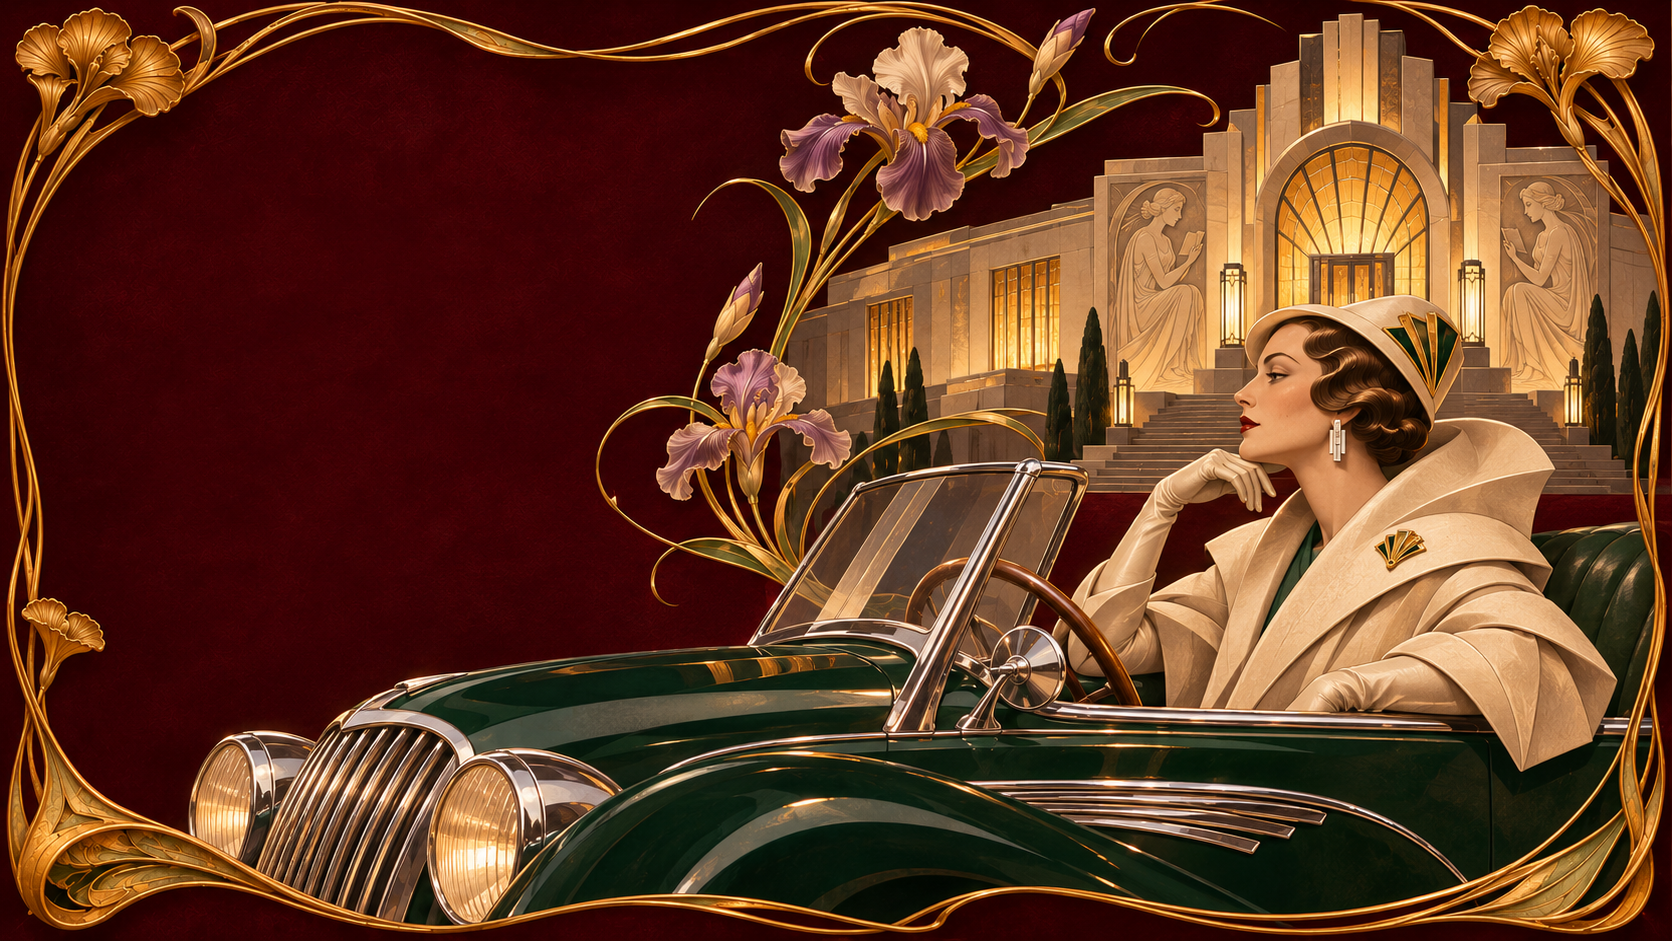
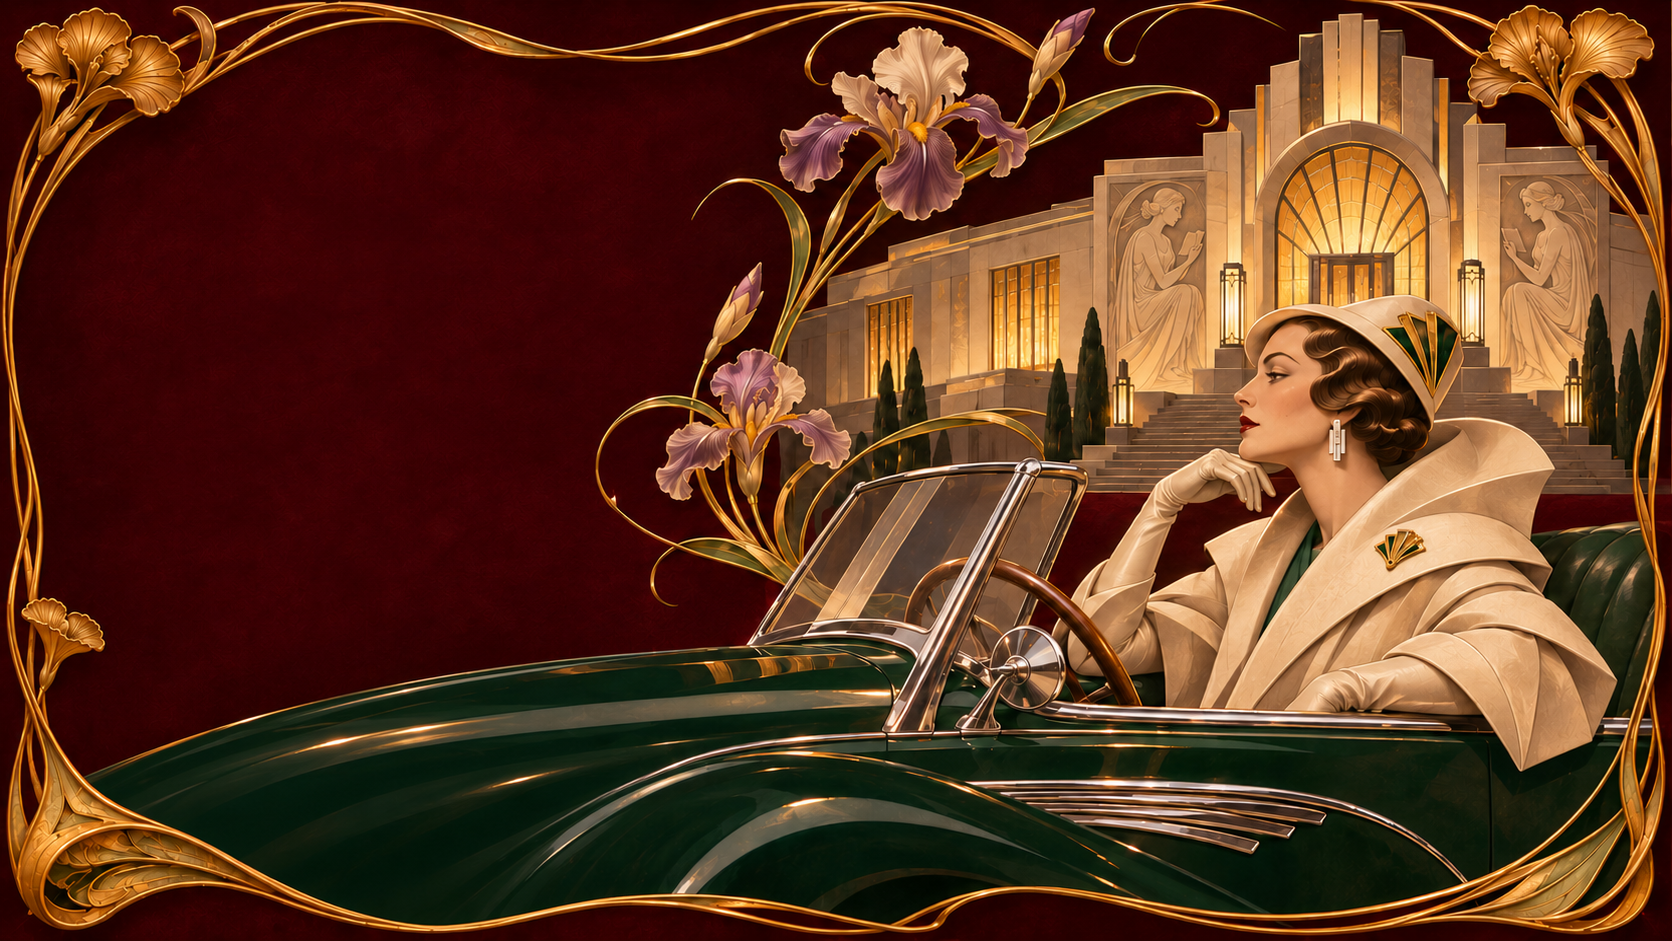
Refine Art Deco hero hood

diff --git a/apps/web/src/styles.css b/apps/web/src/styles.css
@@ -15,9 +15,10 @@ button { color: inherit; font: inherit; }
 .identity span { padding:0 7px; color:#b6822d; }.identity em { font-weight:400; letter-spacing:.06em; }
 nav { display:flex; justify-content:center; gap:28px; font-family:'DM Mono', monospace; font-size:10px; letter-spacing:.13em; text-transform:uppercase; } nav a { opacity:.86; } nav a:first-child { text-decoration:underline; text-underline-offset:7px; }
 .locales { display:flex; gap:12px; font-family:'DM Mono',monospace; font-size:10px; }.locales button { border:0; background:transparent; padding:4px 0; cursor:pointer; opacity:.46; }.locales button.active { opacity:1; border-bottom:1px solid #e5b351; }
-.hero { min-height: calc(100vh - 123px); position:relative; z-index:1; display:grid; grid-template-columns: minmax(320px,.86fr) minmax(420px,1.14fr); align-items:center; gap:26px; padding:48px 8.5% 58px; }
-.hero-copy { position:relative; z-index:2; max-width:570px; padding:65px 0 15px; }.kicker { font-family:'DM Mono',monospace; font-size:10px; letter-spacing:.18em; color:#e2ba6a; }.hero h1 { margin:21px 0 13px; font-weight:500; font-size:clamp(56px,6.5vw,108px); line-height:.79; letter-spacing:-.057em; color:#f2d69a; text-wrap:balance; }.hero h1 span { display:block; }.ornament { display:block; margin:34px 0 22px; color:#e6a93a; font-size:40px; transform:rotate(21deg); }.intro { max-width:460px; margin:0; font-size:24px; line-height:1.15; color:#e5c784; }.journal-link { display:inline-flex; align-items:center; gap:32px; margin-top:40px; font-family:'DM Mono',monospace; font-size:10px; letter-spacing:.15em; text-transform:uppercase; border-bottom:1px solid #dba83d; padding-bottom:10px; }.journal-link i { font-family:Georgia,serif; font-size:22px; font-style:normal; line-height:0; }
-.hero-art { position:relative; margin:0 -4% 0 -12%; z-index:1; }.hero-art::after { content:''; position:absolute; inset:0; background:linear-gradient(90deg,#3c0908 0%, transparent 28%),linear-gradient(0deg,#3b0908 0%,transparent 15%); mix-blend-mode:multiply; pointer-events:none; }.hero-art img { width:100%; display:block; object-fit:cover; min-height:500px; filter:saturate(.88) contrast(1.06); }.hero-art figcaption { position:absolute; z-index:2; bottom:17px; right:27px; font-family:'DM Mono',monospace; font-size:9px; letter-spacing:.15em; text-transform:uppercase; color:#f0c865; }
+.hero { min-height: calc(100vh - 123px); position:relative; z-index:1; display:flex; align-items:center; padding:48px 8.5% 58px; overflow:hidden; }
+.hero-copy { position:relative; z-index:2; max-width:465px; padding:65px 0 15px; }.kicker { font-family:'DM Mono',monospace; font-size:10px; letter-spacing:.18em; color:#e2ba6a; }.hero h1 { margin:21px 0 13px; font-weight:500; font-size:clamp(56px,6.5vw,108px); line-height:.79; letter-spacing:-.057em; color:#f2d69a; text-wrap:balance; }.hero h1 span { display:block; }.ornament { display:block; margin:34px 0 22px; color:#e6a93a; font-size:40px; transform:rotate(21deg); }.intro { max-width:405px; margin:0; font-size:23px; line-height:1.15; color:#e5c784; }.journal-link { display:inline-flex; align-items:center; gap:32px; margin-top:40px; font-family:'DM Mono',monospace; font-size:10px; letter-spacing:.15em; text-transform:uppercase; border-bottom:1px solid #dba83d; padding-bottom:10px; }.journal-link i { font-family:Georgia,serif; font-size:22px; font-style:normal; line-height:0; }
+.hero-art { position:absolute; z-index:0; inset:0 -9% 0 0; margin:0; }.hero-art::after { content:''; position:absolute; inset:0; background:linear-gradient(90deg,#370807 0%,rgba(55,8,7,.93) 19%,rgba(55,8,7,.33) 43%, transparent 62%),linear-gradient(0deg,#3b0908 0%,transparent 19%); pointer-events:none; }.hero-art img { width:100%; height:100%; display:block; object-fit:cover; object-position:center; filter:saturate(.88) contrast(1.06); }.hero-art figcaption { position:absolute; z-index:2; bottom:17px; right:10%; font-family:'DM Mono',monospace; font-size:9px; letter-spacing:.15em; text-transform:uppercase; color:#f0c865; }
 .margin-note { position:absolute; right:26px; top:50%; transform:rotate(90deg) translateX(50%); transform-origin:right; display:flex; align-items:center; gap:9px; font-family:'DM Mono',monospace; font-size:9px; letter-spacing:.11em; white-space:nowrap; color:#d9af5a; }.margin-note span { width:48px; height:1px; background:currentColor; opacity:.8; }
 .manifesto { position:relative; z-index:1; border-top:1px solid rgba(223,174,69,.65); margin:0 6%; padding:26px 3% 42px; display:flex; align-items:end; justify-content:space-between; gap:30px; }.manifesto p { margin:0; max-width:630px; font-size:29px; line-height:1.05; }.disciplines { display:flex; flex-wrap:wrap; justify-content:flex-end; gap:11px; font-family:'DM Mono',monospace; font-size:9px; letter-spacing:.1em; }.disciplines span { border:1px solid rgba(225,177,69,.65); padding:8px 10px; }
-@media (max-width: 850px) { .page-shell { padding:12px; }.page-shell::before{inset:12px}.page-shell::after{inset:18px}.site-header{grid-template-columns:48px 1fr auto;padding:11px 17px}.identity{font-size:14px}.identity em,nav{display:none}.hero{grid-template-columns:1fr;padding:42px 11% 32px;gap:8px}.hero-copy{padding-top:20px}.hero h1{font-size:clamp(53px,15vw,82px)}.hero-art{margin:0 -7%}.hero-art img{min-height:330px}.margin-note{display:none}.manifesto{margin:0 8%;display:block}.disciplines{justify-content:flex-start;margin-top:22px}.intro{font-size:21px} }
+.editorial-grid { position:relative; z-index:1; display:grid; grid-template-columns:1.2fr 1fr 1fr; gap:1px; margin:0 6% 58px; background:rgba(222,172,69,.55); border:1px solid rgba(222,172,69,.55); }.editorial-card { min-height:310px; padding:27px; display:flex; flex-direction:column; justify-content:space-between; background:linear-gradient(145deg,rgba(91,18,15,.92),rgba(42,5,6,.98)); transition:background .25s ease, transform .25s ease; }.editorial-card:hover { background:linear-gradient(145deg,rgba(115,33,24,.95),rgba(49,6,7,.98)); transform:translateY(-4px); }.editorial-card span,.editorial-card i { font-family:'DM Mono',monospace; font-size:9px; letter-spacing:.14em; font-style:normal; color:#e3b758; }.editorial-card strong { font-size:32px; line-height:.9; font-weight:500; color:#f0d69b; }.journal-card { background:linear-gradient(145deg,rgba(15,55,48,.82),rgba(52,9,8,.98)); }.archive-card { background:linear-gradient(145deg,rgba(96,55,18,.68),rgba(52,9,8,.98)); }
+@media (max-width: 850px) { .page-shell { padding:12px; }.page-shell::before{inset:12px}.page-shell::after{inset:18px}.site-header{grid-template-columns:48px 1fr auto;padding:11px 17px}.identity{font-size:14px}.identity em,nav{display:none}.hero{padding:42px 11% 32px;gap:8px;min-height:760px;align-items:flex-start}.hero-copy{padding-top:20px}.hero h1{font-size:clamp(53px,15vw,82px)}.hero-art{inset:auto 0 0 0;height:55%;}.hero-art::after{background:linear-gradient(0deg,#3b0908 0%,transparent 45%)}.hero-art img{object-position:72% center}.margin-note{display:none}.manifesto{margin:0 8%;display:block}.disciplines{justify-content:flex-start;margin-top:22px}.intro{font-size:21px}.editorial-grid{grid-template-columns:1fr;margin:0 8% 44px}.editorial-card{min-height:230px}.editorial-card strong{font-size:28px} }

diff --git a/apps/web/src/main.tsx b/apps/web/src/main.tsx
@@ -70,6 +70,24 @@ function App() {
           <span>ART NOUVEAU</span><span>ART DÉCO</span><span>OBJETS D’ART</span><span>PROVENANCE</span>
         </div>
       </section>
+
+      <section className="editorial-grid" aria-label="Разделы сайта">
+        <a className="editorial-card journal-card" href="#journal">
+          <span>01 · JOURNAL</span>
+          <strong>Истории вещей,<br />которые пережили<br />своё время.</strong>
+          <i>Открыть записи ↗</i>
+        </a>
+        <a className="editorial-card archive-card" id="archive" href="#archive">
+          <span>02 · ARCHIVE</span>
+          <strong>Личный архив:<br />стили, мастера,<br />редкие предметы.</strong>
+          <i>Перейти в архив ↗</i>
+        </a>
+        <a className="editorial-card about-card" id="about" href="#about">
+          <span>03 · ABOUT</span>
+          <strong>Взгляд автора:<br />искусство — это<br />знание деталей.</strong>
+          <i>Об авторе ↗</i>
+        </a>
+      </section>
     </main>
   )
 }
